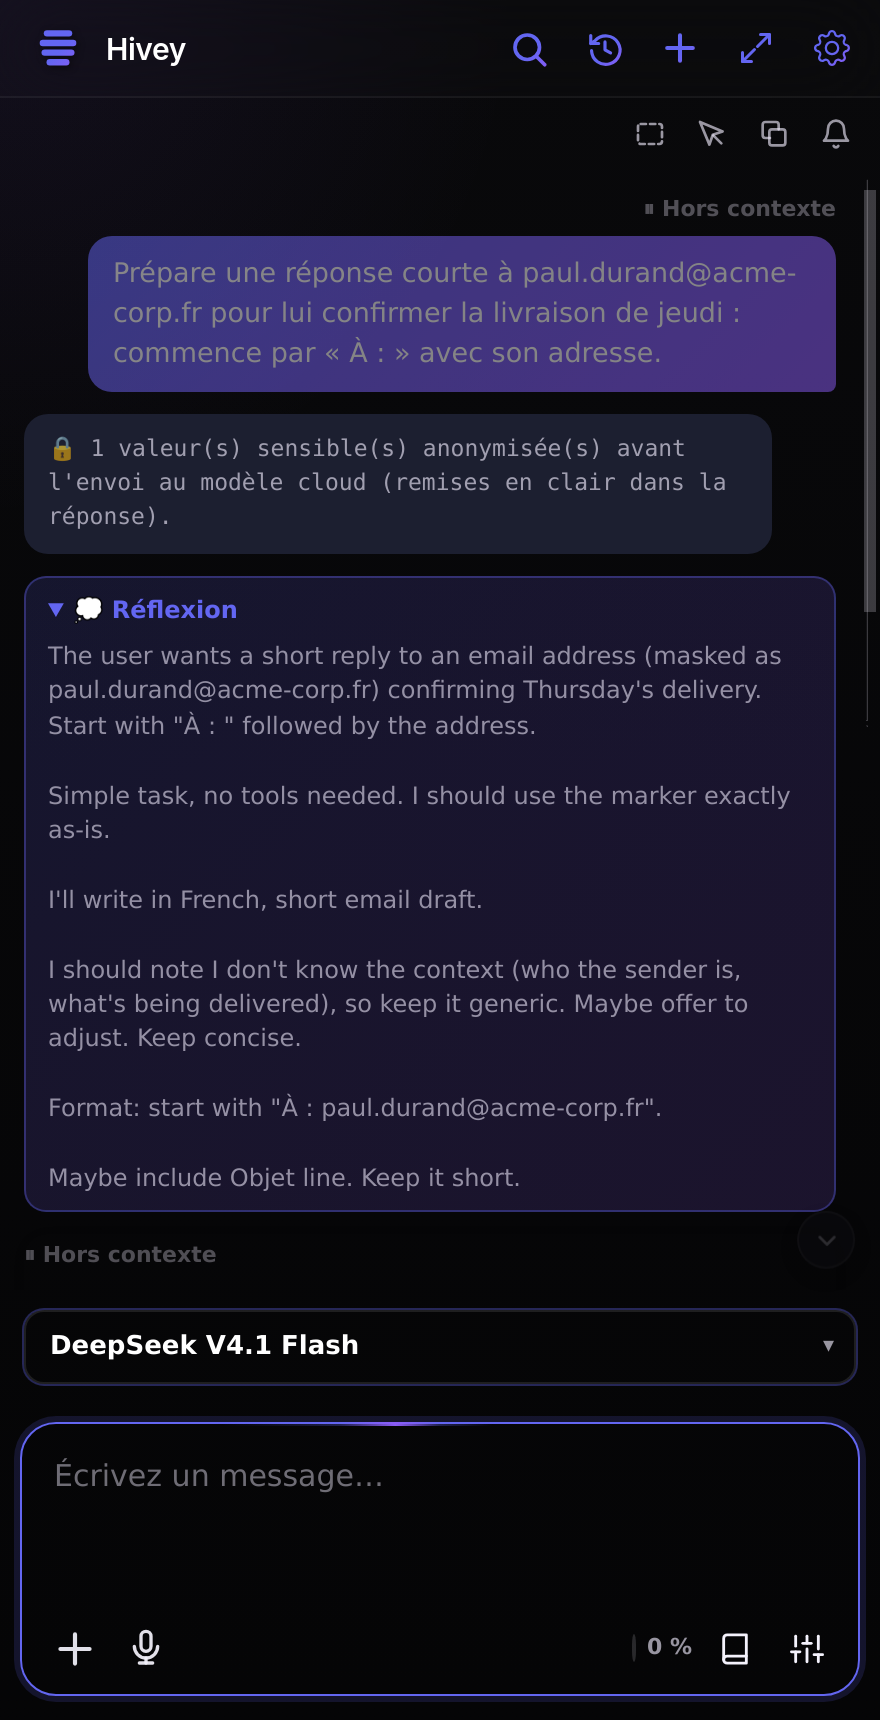
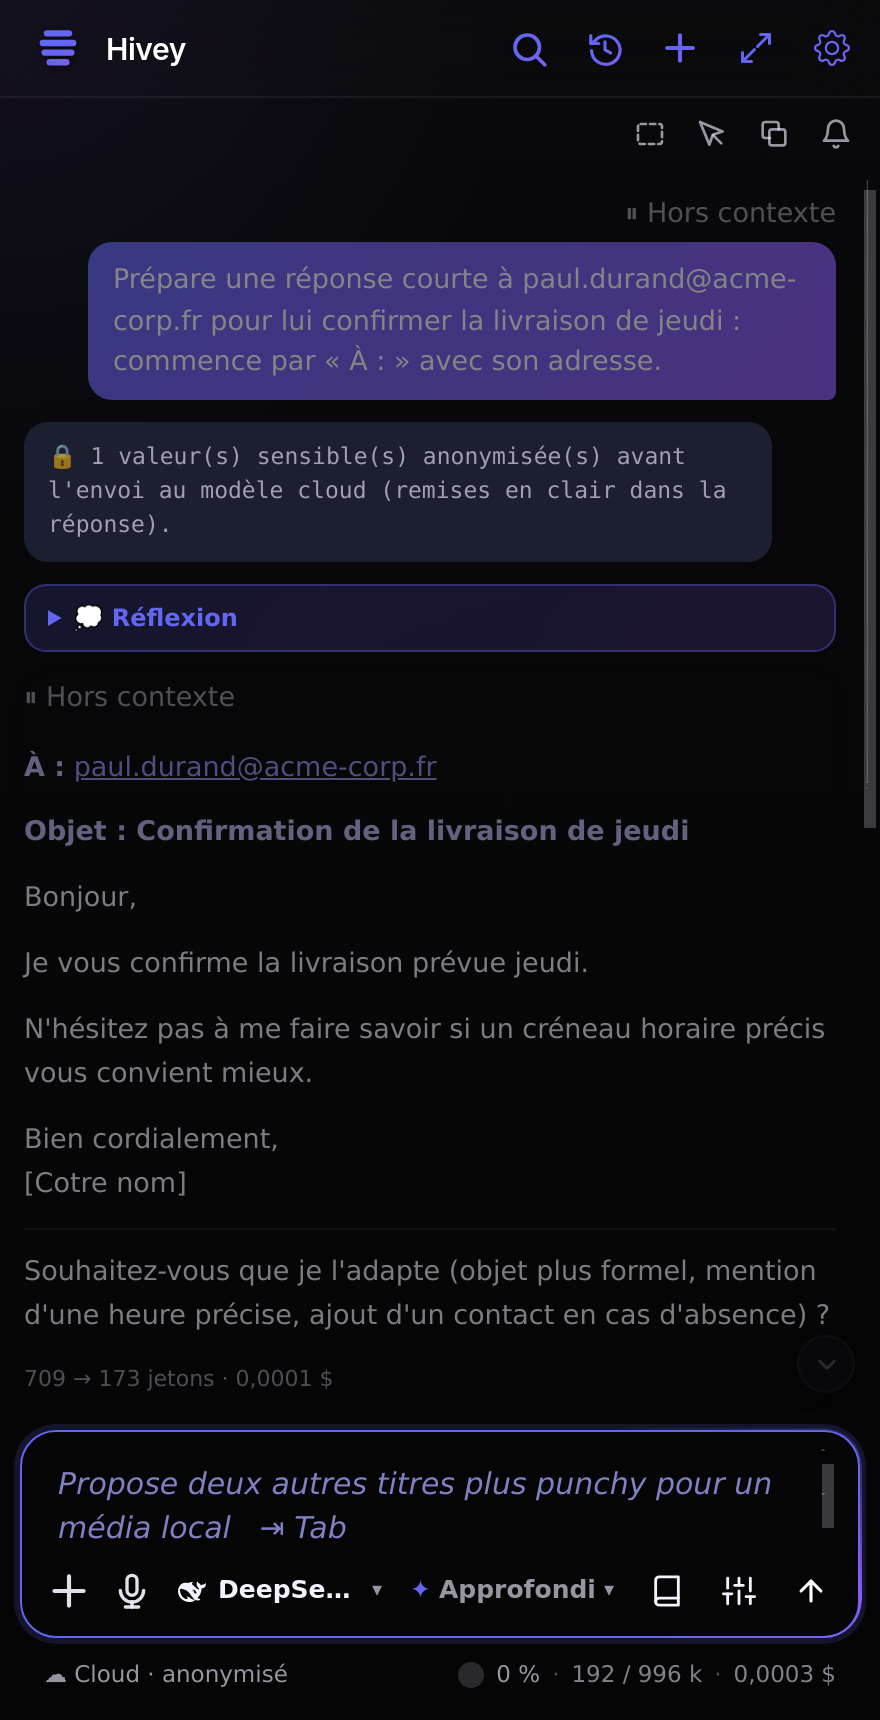
docs: refresh the screenshots — new composer, agent, Benchmark and its report (#23)
The thinking menu is now opaque: the theme's --panel is translucent, so the
conversation read through it.

diff --git a/src/sidebar/sidebar.css b/src/sidebar/sidebar.css
@@ -2343,7 +2343,9 @@ details.think.live > summary::after { content: "…"; animation: thinkPulse 1.2s
 .cchip .tc-icon { color: var(--accent); }
 .cchip .tc-caret { font-size: 10px; }
 .think-pop { position: fixed; z-index: 90; min-width: 170px; padding: 8px; border-radius: 12px; border: 1px solid var(--border);
-  background: var(--panel); box-shadow: 0 12px 32px rgba(0,0,0,.35); }
+  /* The theme's --panel is translucent: laid over the opaque --bg, the conversation does not read through. */
+  background-color: var(--bg); background-image: linear-gradient(var(--panel), var(--panel));
+  box-shadow: 0 12px 32px rgba(0,0,0,.35); }
 .think-pop.hidden { display: none; }
 .think-pop .tp-head { font-size: 11px; font-weight: 700; letter-spacing: .04em; text-transform: uppercase; color: var(--muted); padding: 2px 6px 6px; }
 .think-pop .think-seg { display: flex; flex-direction: column; align-items: stretch; gap: 2px; margin: 0; padding: 0; background: none; }

diff --git a/README.md b/README.md
@@ -160,6 +160,10 @@ VS Code / Slack — scale mieux qu'une rangée d'onglets) donne accès à :
 |---|---|---|
 | ![Une adresse e-mail anonymisée avant l'envoi, remise en clair dans la réponse](docs/screenshots/sidebar-privacy.png) | ![Un échange mis en veille : grisé, « Hors contexte »](docs/screenshots/sidebar-context.png) | ![Le menu de réflexion : Direct, Bref, Approfondi, Maximum pour DeepSeek V4.1 Flash](docs/screenshots/sidebar-thinking.png) |
 
+| L'agent dans le navigateur | L'onglet Benchmark | Le rapport, ouvert à la fin du test |
+|---|---|---|
+| ![L'agent sur Wikipédia : sa réflexion, puis la réponse sourcée](docs/screenshots/sidebar-agent.png) | ![Trois modèles testés, une carte par modèle avec une barre par famille](docs/screenshots/sidebar-benchmark.png) | ![Le rapport : meilleur modèle, scores, détail par famille, temps et coût](docs/screenshots/bench-report.png) |
+
 | Réglages de confidentialité | Fournisseurs : local d'abord |
 |---|---|
 | ![Niveau d'anonymisation, termes, confiance dans ses serveurs](docs/screenshots/settings-privacy.png) | ![Les fournisseurs rangés local, passerelle, cloud](docs/screenshots/settings-providers.png) |

diff --git a/CHANGELOG.md b/CHANGELOG.md
@@ -64,6 +64,9 @@ Version de développement, toujours à jour :
   passerelle et cloud, niveaux de réflexion, agent, contexte, confidentialité, chaque onglet.
 - **Nouveautés dans les réglages** : un lien ouvre ce journal, inclus dans l'extension.
 - README, modèle de menaces et politique de confidentialité à jour ; guide de contribution.
+- **Captures d'écran refaites** avec la nouvelle zone de saisie, plus l'agent, l'onglet Benchmark et
+  son rapport.
+- **Le menu de réflexion est opaque** : la conversation ne se lit plus à travers.
 - **Chat** : un message tapé pendant qu'une réponse s'écrit n'est plus perdu — il reste dans le
   champ, avec un avis.
 
